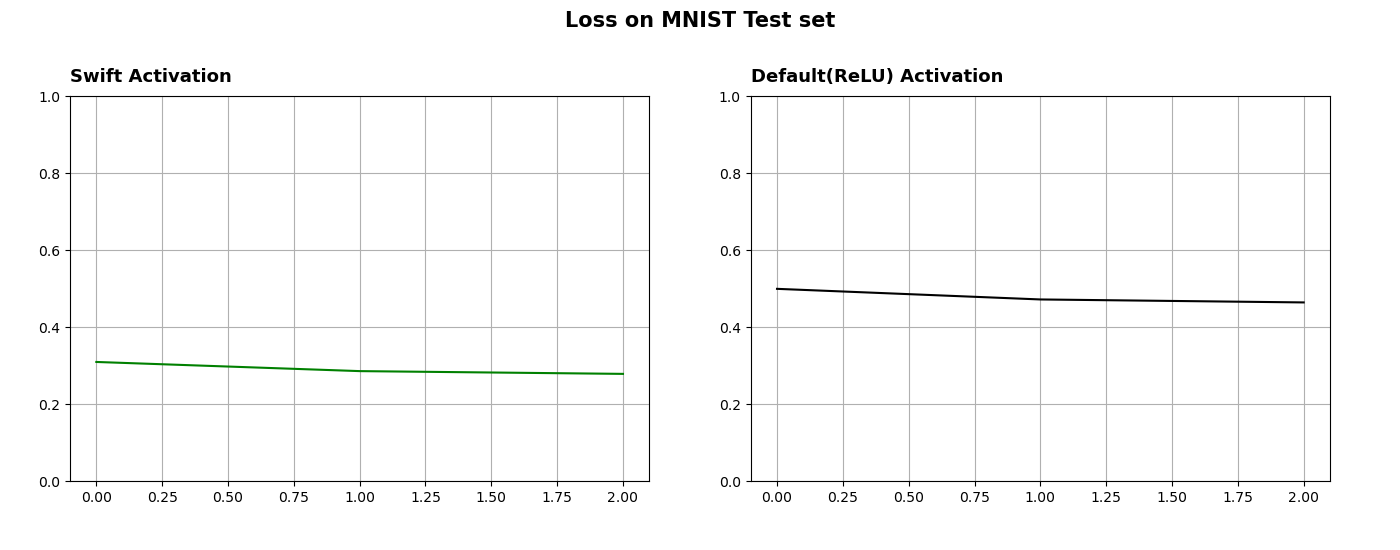
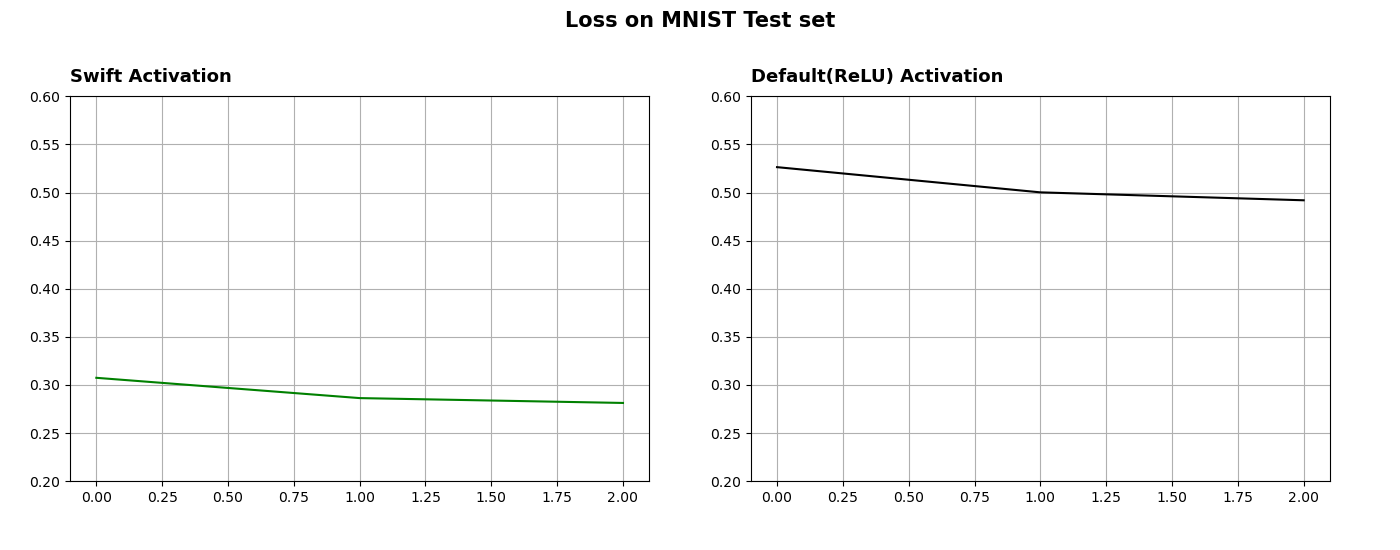
done 'CIFAR10'

diff --git a/main.py b/main.py
@@ -61,6 +61,12 @@ def seed_everything(seed: int=42) -> None:
     torch.backends.cudnn.deterministic = True
     torch.backends.cudnn.benchmark = True
 
+def print_set_info(args: argparse.Namespace) -> None:
+    print('\n\n')
+    print(f'SETTING INFO'.center(60, '='))
+    print(f'+ Mode: {args.mode}({args.device})')
+    print(f'+ Depth: {args.depth}', end='\n\n')
+
 def get_argsByMode(mode: str) -> tuple:
     '''
     mode에 따른 하이퍼파라미터 반환
@@ -84,7 +90,7 @@ def get_argsByMode(mode: str) -> tuple:
     elif mode == 'mnist':
         return 4, 0.0001, nn.CrossEntropyLoss()
     elif mode == 'cifar10':
-        return 128, 0.001, nn.CrossEntropyLoss()
+        return 128, 0.0001, nn.CrossEntropyLoss()
     raise
 
 def get_model_shape(mode: str, depth: int) -> tuple:
@@ -137,7 +143,7 @@ def cifarDataLoader(train: bool, batch_size: int) -> DataLoader:
             root='./dataset/cifar10/',
             train=train,
             transform=transform,
-            download=True
+
         ), shuffle=train, batch_size=batch_size
     )
     return loader
@@ -169,6 +175,7 @@ if __name__ == '__main__':
     DEVICE = args.device
     BATCH_SIZE, LR, CRI = get_argsByMode(mode=args.mode)
     model_shape = get_model_shape(mode=args.mode, depth=args.depth)
+    print_set_info(args)
 
     swift_model = Model( #swift activation Model
         shape=model_shape,
@@ -227,7 +234,7 @@ if __name__ == '__main__':
                 swi_tr_losses.append(swi_loss)
                 def_tr_losses.append(def_loss)
                 train_dataLoader.set_description(
-                    f'Swift Loss: {get_mean(swi_tr_losses):.3f}   Default Loss: {get_mean(def_tr_losses):.3f}'
+                    f'TRAIN   Swift Loss: {get_mean(swi_tr_losses):.3f}   Default Loss: {get_mean(def_tr_losses):.3f}'
                 )
 
             test_dataLoader = tqdm(mnistDataLoader(train=False, batch_size=10000)) #One Batch All Data
@@ -239,19 +246,21 @@ if __name__ == '__main__':
                 swi_te_losses.append(swi_loss)
                 def_te_losses.append(def_loss)
                 test_dataLoader.set_description(
-                    f'Swift Loss: {swi_loss:.3f}   Default Loss: {def_loss:.3f}'
+                    f'TEST   Swift Loss: {swi_loss:.3f}   Default Loss: {def_loss:.3f}'
                 )
+            print()
 
         save_plot(
             swift_loss=swi_te_losses,
             default_loss=def_te_losses,
             head_title=f'Loss on MNIST Test set',
             figure_path='./figures/2_lossOnMNIST_Test_set.png',
+            ylim=(0.2, 0.6),
         )
 
     elif args.mode == 'cifar10':
         swi_te_losses, def_te_losses = list(), list() #TEST
-        for e in range(5): #EPOCH
+        for e in range(10): #EPOCH
             train_dataLoader = tqdm(cifarDataLoader(train=True, batch_size=BATCH_SIZE))  
             swi_tr_losses, def_tr_losses = list(), list() #TRAIN  
             for x, y in train_dataLoader:
@@ -262,10 +271,10 @@ if __name__ == '__main__':
                 swi_tr_losses.append(swi_loss)
                 def_tr_losses.append(def_loss)
                 train_dataLoader.set_description(
-                    f'Swift Loss: {get_mean(swi_tr_losses):.3f}   Default Loss: {get_mean(def_tr_losses):.3f}'
+                    f'TRAIN   Swift Loss: {get_mean(swi_tr_losses):.3f}   Default Loss: {get_mean(def_tr_losses):.3f}'
                 )
 
-            test_dataLoader = tqdm(cifarDataLoader(train=False, batch_size=3072)) #One Batch All Data
+            test_dataLoader = tqdm(cifarDataLoader(train=False, batch_size=12288)) #One Batch All Data
             for x, y in test_dataLoader:
                 x, y = x.to(DEVICE), y.to(DEVICE)
                 swi_loss = swift_model.cri(swift_model(x), y).item()
@@ -274,13 +283,14 @@ if __name__ == '__main__':
                 swi_te_losses.append(swi_loss)
                 def_te_losses.append(def_loss)
                 test_dataLoader.set_description(
-                    f'Swift Loss: {swi_loss:.3f}   Default Loss: {def_loss:.3f}'
+                    f'TEST   Swift Loss: {swi_loss:.3f}   Default Loss: {def_loss:.3f}'
                 )
+            print()
 
         save_plot(
             swift_loss=swi_te_losses,
             default_loss=def_te_losses,
             head_title=f'Loss on MNIST Test set',
             figure_path='./figures/3_lossOnCIFAR10_Test_set.png',
-            ylim=(0, 2),
+            ylim=(1., 2.),
         )

diff --git a/activation.py b/activation.py
@@ -26,9 +26,9 @@ def swift_(input) -> Tensor:
     # out[upper] = (out[upper])
 
     #under picky <BEST
-    under = (out < 0.)
-    out[under] = (-out[under])
-    out[~under] = (out[~under])
+    # under = (out < 0.)
+    # out[under] = (-out[under])
+    # out[~under] = (out[~under])
 
     #upper picky <BEST
     # under = (out < 0.)
@@ -36,9 +36,9 @@ def swift_(input) -> Tensor:
     # out[~under] = (-out[~under])
 
     #bound upper picky
-    # under = (out < 0.)
-    # out[under] = (out[under] + 1.)
-    # out[~under] = (-out[~under] + 1.)
+    under = (out < 0.)
+    out[under] = (out[under] + 1.)
+    out[~under] = (-out[~under] + 1.)
     return out
 
 class Swift(nn.Module):
